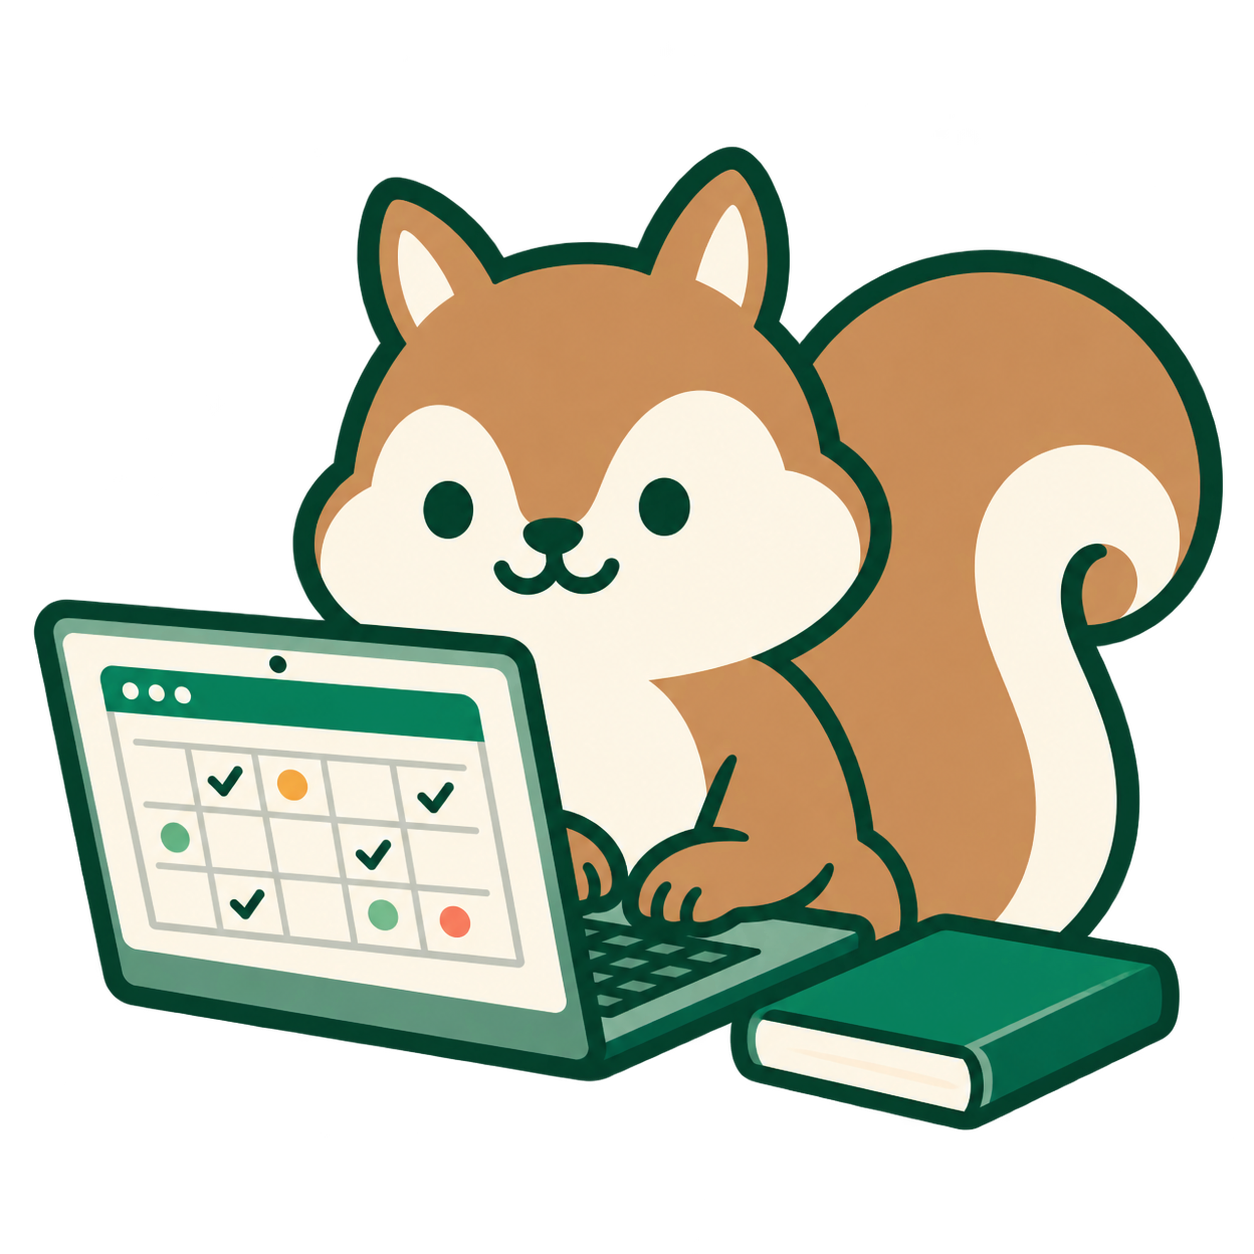
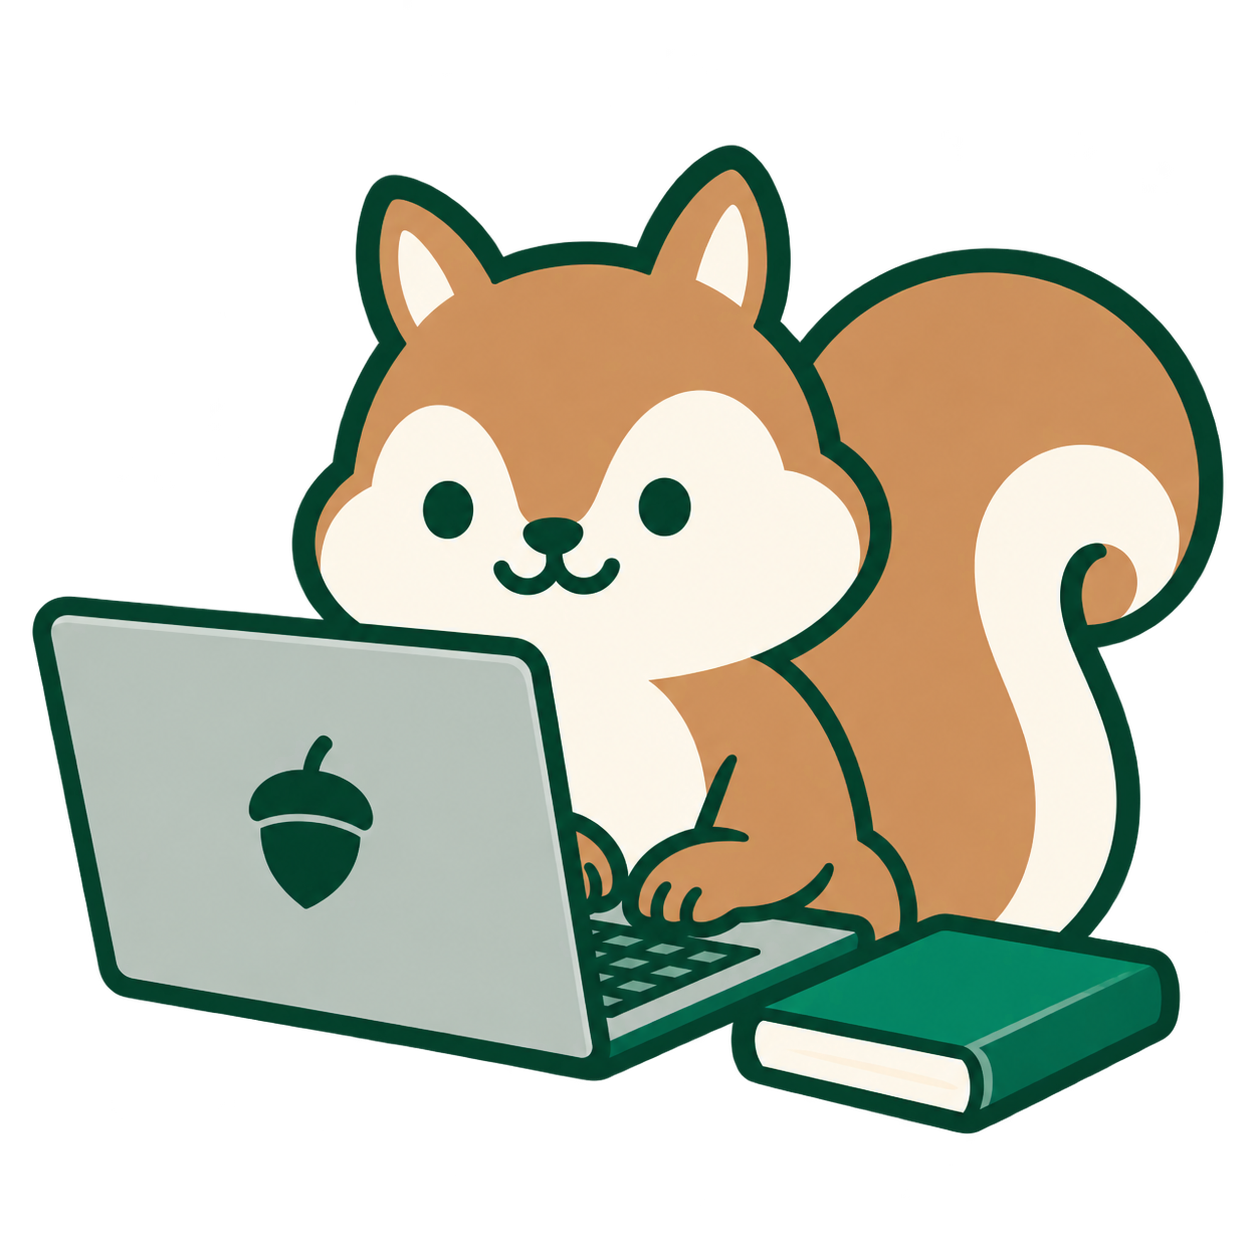
Fix organizer mascot laptop back panel

diff --git a/docs/mascot-assets.md b/docs/mascot-assets.md
@@ -11,7 +11,7 @@
 | `squirrel-fun.png` | 活動を楽しむ場面 | 本を持って楽しむリス |
 | `squirrel-apology.png` | お詫び、処理失敗 | お辞儀して謝るリス |
 | `squirrel-404.png` | 404など、ページが見つからない場面 | 本を開いて困っているリス |
-| `squirrel-organizer.png` | 主催者向けログイン・管理案内 | パソコンで活動予定を管理するリス |
+| `squirrel-organizer.png` | 主催者向けログイン・管理案内 | どんぐりマークのパソコンで活動予定を管理するリス |
 | `squirrel-participant.png` | 参加者向けログイン・スポーツ案内 | 本とラケットを持つリス |
 
 使用例：
@@ -32,7 +32,7 @@
 - `fun`：本を持って軽くステップし、楽しさを表す。
 - `apology`：本を胸に抱え、体を前に曲げてお辞儀する。
 - `404`：座って開いた本を見ながら困る。数字は画像に入れない。
-- `organizer`：一台のノートPCで予定やチェックリストを管理し、本をそばに置く。
+- `organizer`：一台のノートPCで予定を管理し、本をそばに置く。こちら側には画面ではなく、どんぐりマークを付けた背面を見せる。
 - `participant`：バドミントンのラケットと本を持って活動に向かう。
 
 いずれもPNG（RGBA）です。正式なUI配置は使用するページのレイアウトに合わせて調整できます。
